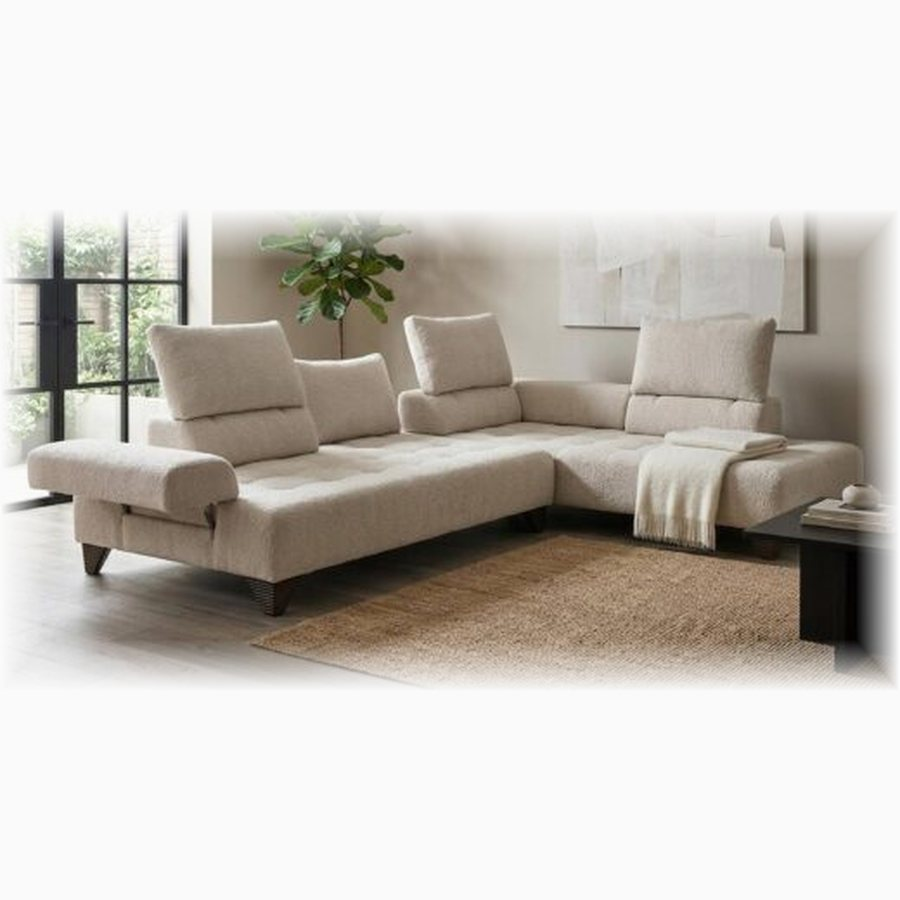
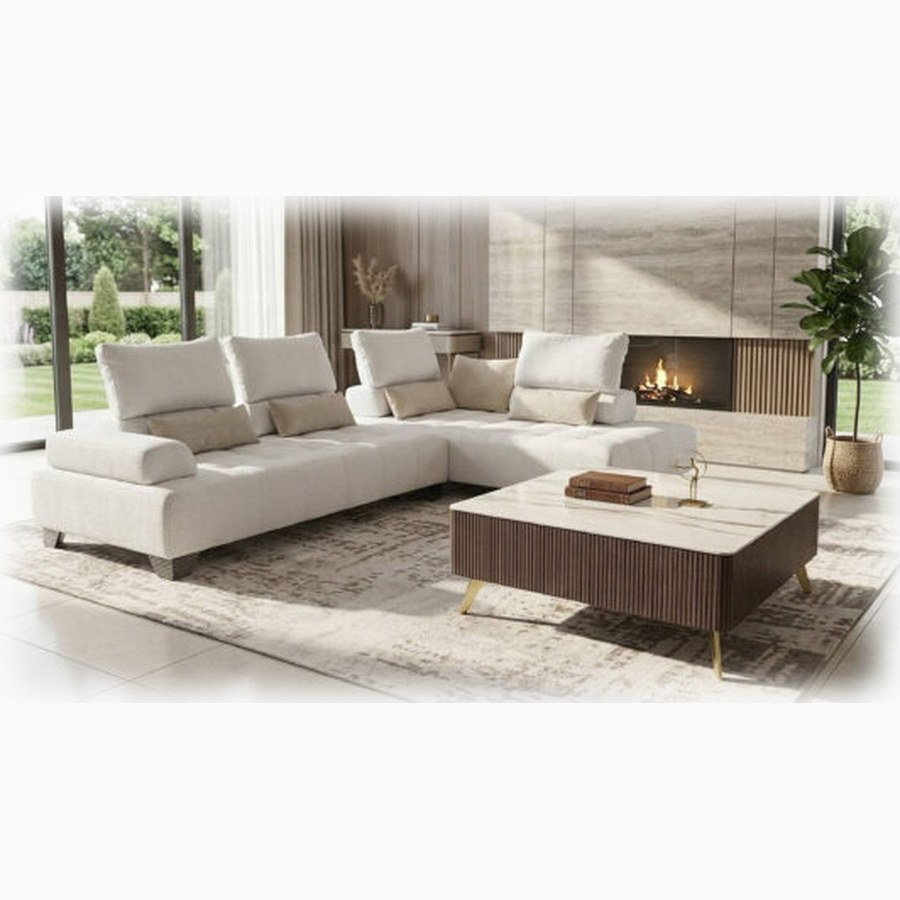
Marabu: new photo on page and catalog thumbnail
Claude-Session: https://claude.ai/code/session_01VxTVhACTxuDPBi3XaSyF5U

diff --git a/marabu.html b/marabu.html
@@ -53,7 +53,7 @@
 
         <div class="carousel single" aria-roledescription="carousel" aria-label="Φωτογραφίες Marabu">
           <div class="carousel-track" tabindex="0">
-            <div class="carousel-slide" role="group" aria-roledescription="slide" aria-label="1 από 1"><img src="images/salonia/marabu-1.jpg" alt="Μπεζ γωνιακός καναπές Marabu με ρυθμιζόμενα προσκέφαλα και καπιτονέ καθίσματα, σε φωτεινό σαλόνι"></div>
+            <div class="carousel-slide" role="group" aria-roledescription="slide" aria-label="1 από 1"><img src="images/salonia/marabu-1.jpg?v=2" alt="Λευκός γωνιακός καναπές Marabu με ρυθμιζόμενα προσκέφαλα, σε σαλόνι με τζάκι και τραπεζάκι με μαρμάρινη επιφάνεια"></div>
           </div>
           <button class="carousel-btn prev" type="button" aria-label="Προηγούμενη φωτογραφία">‹</button>
           <button class="carousel-btn next" type="button" aria-label="Επόμενη φωτογραφία">›</button>

diff --git a/salonia.html b/salonia.html
@@ -71,7 +71,7 @@
             </div>
           </article>
           <article class="product-card">
-            <a href="marabu.html" class="product-img"><img src="images/salonia/marabu.jpg" alt="Σαλόνι Marabu" width="900" height="900" loading="lazy"></a>
+            <a href="marabu.html" class="product-img"><img src="images/salonia/marabu.jpg?v=2" alt="Σαλόνι Marabu" width="900" height="900" loading="lazy"></a>
             <div class="product-body">
               <p class="product-cat">Σαλόνι</p>
               <h3><a href="marabu.html">Σαλόνι Marabu</a></h3>
